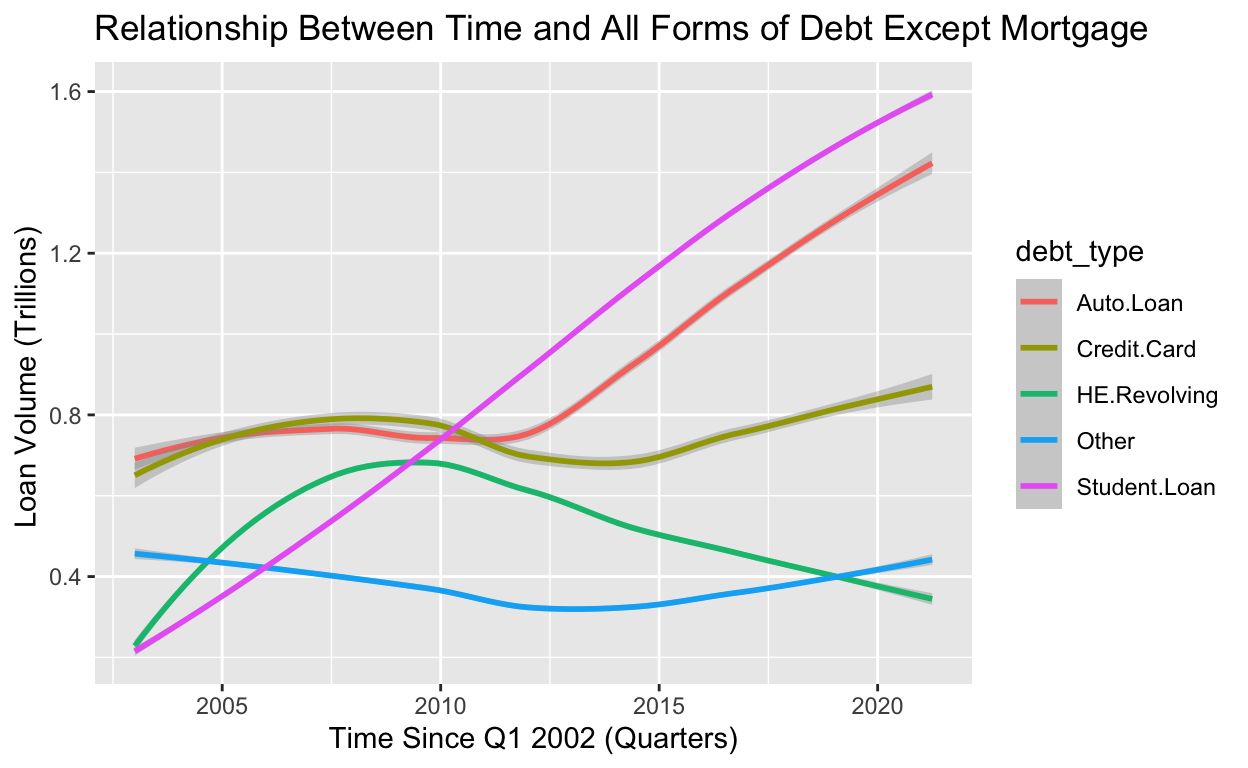
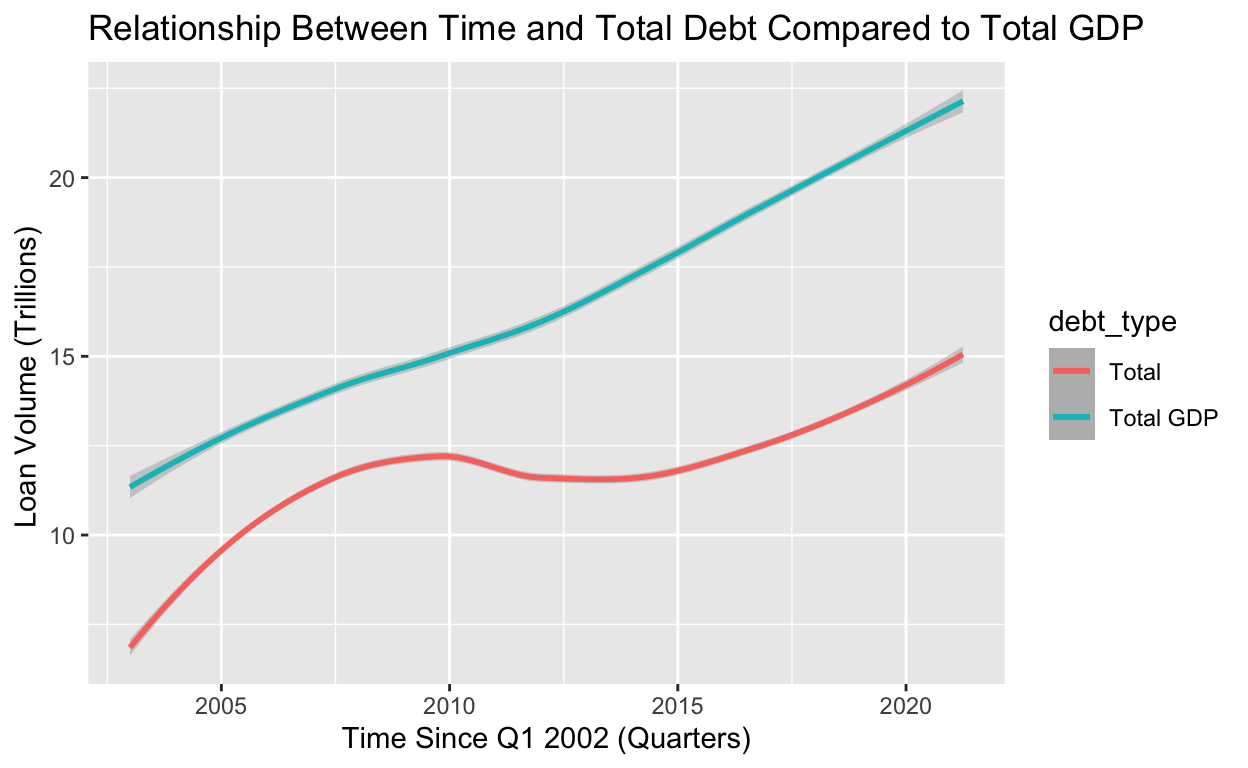
final project commit noah

diff --git a/_posts/2021-08-19-noah-final-project-draft/noah-final-project-draft.html b/_posts/2021-08-19-noah-final-project-draft/noah-final-project-draft.html
@@ -86,9 +86,9 @@ code span.wa { color: #5e5e5e; font-style: italic; } /* Warning */
 </style>
 
   <!--radix_placeholder_meta_tags-->
-  <title>Noah Homework 5</title>
+  <title>Noah's Final Project</title>
   
-  <meta property="description" itemprop="description" content="HW Five."/>
+  <meta property="description" itemprop="description" content="A Brief Analysis of Debt and Gross Domestic Product in the United States Since Quarter Four 2002"/>
   
   
   <!--  https://schema.org/Article -->
@@ -96,21 +96,21 @@ code span.wa { color: #5e5e5e; font-style: italic; } /* Warning */
   <meta property="article:created" itemprop="dateCreated" content="2021-08-19"/>
   
   <!--  https://developers.facebook.com/docs/sharing/webmasters#markup -->
-  <meta property="og:title" content="Noah Homework 5"/>
+  <meta property="og:title" content="Noah&#39;s Final Project"/>
   <meta property="og:type" content="article"/>
-  <meta property="og:description" content="HW Five."/>
+  <meta property="og:description" content="A Brief Analysis of Debt and Gross Domestic Product in the United States Since Quarter Four 2002"/>
   <meta property="og:locale" content="en_US"/>
   
   <!--  https://dev.twitter.com/cards/types/summary -->
   <meta property="twitter:card" content="summary"/>
-  <meta property="twitter:title" content="Noah Homework 5"/>
-  <meta property="twitter:description" content="HW Five."/>
+  <meta property="twitter:title" content="Noah&#39;s Final Project"/>
+  <meta property="twitter:description" content="A Brief Analysis of Debt and Gross Domestic Product in the United States Since Quarter Four 2002"/>
   
   <!--/radix_placeholder_meta_tags-->
   <!--radix_placeholder_rmarkdown_metadata-->
   
   <script type="text/json" id="radix-rmarkdown-metadata">
-  {"type":"list","attributes":{"names":{"type":"character","attributes":{},"value":["title","description","-name","date","output","draft"]}},"value":[{"type":"character","attributes":{},"value":["Noah Homework 5"]},{"type":"character","attributes":{},"value":["HW Five.\n"]},{"type":"character","attributes":{},"value":["Noah Milstein"]},{"type":"character","attributes":{},"value":["08-19-2021"]},{"type":"list","attributes":{"names":{"type":"character","attributes":{},"value":["distill::distill_article"]}},"value":[{"type":"list","attributes":{"names":{"type":"character","attributes":{},"value":["self_contained"]}},"value":[{"type":"logical","attributes":{},"value":[false]}]}]},{"type":"logical","attributes":{},"value":[true]}]}
+  {"type":"list","attributes":{"names":{"type":"character","attributes":{},"value":["title","description","-name","date","output","draft"]}},"value":[{"type":"character","attributes":{},"value":["Noah's Final Project"]},{"type":"character","attributes":{},"value":["A Brief Analysis of Debt and Gross Domestic Product in the United States Since Quarter Four 2002\n"]},{"type":"character","attributes":{},"value":["Noah Milstein"]},{"type":"character","attributes":{},"value":["08-19-2021"]},{"type":"list","attributes":{"names":{"type":"character","attributes":{},"value":["distill::distill_article"]}},"value":[{"type":"list","attributes":{"names":{"type":"character","attributes":{},"value":["self_contained"]}},"value":[{"type":"logical","attributes":{},"value":[false]}]}]},{"type":"logical","attributes":{},"value":[true]}]}
   </script>
   <!--/radix_placeholder_rmarkdown_metadata-->
   
@@ -1453,7 +1453,7 @@ code span.wa { color: #5e5e5e; font-style: italic; } /* Warning */
 <!--radix_placeholder_front_matter-->
 
 <script id="distill-front-matter" type="text/json">
-{"title":"Noah Homework 5","description":"HW Five.","authors":[],"publishedDate":"2021-08-19T00:00:00.000+00:00"}
+{"title":"Noah's Final Project","description":"A Brief Analysis of Debt and Gross Domestic Product in the United States Since Quarter Four 2002","authors":[],"publishedDate":"2021-08-19T00:00:00.000+00:00"}
 </script>
 
 <!--/radix_placeholder_front_matter-->
@@ -1463,20 +1463,20 @@ code span.wa { color: #5e5e5e; font-style: italic; } /* Warning */
 <!--/radix_placeholder_site_before_body-->
 
 <div class="d-title">
-<h1>Noah Homework 5</h1>
+<h1>Noah’s Final Project</h1>
 <!--radix_placeholder_categories-->
 <!--/radix_placeholder_categories-->
-<p><p>HW Five.</p></p>
+<p><p>A Brief Analysis of Debt and Gross Domestic Product in the United States Since Quarter Four 2002</p></p>
 </div>
 
 
 <div class="d-article">
 <h2 id="research-problem">Research Problem</h2>
-<p>The Research Problem I will be addressing relates to nation debt in the United over the past two decades. Leading up to and after the financial crisis debt has become an important topic in economics. Since the financial crisis was largely caused by debtors being allowed more credit than they were able to pay back, it is important to ensure that the country is not following a similar path economically.</p>
+<p>THe Research problem I wanted to pursue with this project is the relationship between GDP and debt. Specifically I was interested in student debt and mortgage debt relative to GDP and the cumulative debt of consumer. I wanted to address this question over past two decades, leading up to and after the financial crisis. Debt is an important topic in economics and examine its size relative to the domestic product of the United States is also important for understanding how the economy function. Since the financial crisis was largely caused by debtors being allowed more credit than they were able to pay back, it is important to ensure that the country is not following a similar path economically.</p>
 <h1 id="how-i-will-be-analyzing-the-probelem">How I will be analyzing the probelem</h1>
 <p>In order to estimate extent to which debt has increased in the economy recently compared to the past I will compare united states national debt to GDP or gross domestic product.</p>
-<p>Specifically I wanted to see which ones had increased the most in the last few years relative to one another, and if any sectors have reached a similar level to what spurred the 2008 financial crisis. This issue is important on a macro scale as the general consensus seems to be that debt is excessive throughout the economy, especially on the consumer side. Because of this it is important to see how debt has changed in comparison to what the economy is actually able to produce. Excess debt largely implies that people have to borrow beyond income limitations, which could eventually have limits.</p>
-<p>I would argue that debt has returned to its pre-crisis highs and represents a threat to economic stability in the United States. Specifically I would argue that housing market debt is likely nearing unsustainable levels once again. In addition, upticks in other forms of debt have likely increased in comparison to what we produced, which could indicate a looming crisis or a coming inhibitor to non-debt fuled economic growth.</p>
+<p>Specifically I wanted to see which ones had increased the most in the last few years relative to one another, and if any sectors have reached a similar level to what spurred the 2008 financial crisis. This issue is important on a macro scale as the general consensus seems to be that debt is excessive throughout the economy, especially on the consumer side. Because of this it is important to see how debt has changed in comparison to what the economy is actually able to produce. Excess debt largely implies that people have to borrow beyond income limitations, which could eventually have far reaching consequences.</p>
+<p>I would argue that debt has returned to its pre-crisis highs and represents a threat to economic stability in the United States. Specifically I would argue that housing market debt is likely nearing unsustainable levels once again. In addition, upticks in other forms of debt have likely increased in comparison to what we produced, which could indicate a looming crisis or a coming inhibitor to non-debt fueled economic growth.</p>
 <h2 id="my-data">My Data</h2>
 <p>The dataset I chose for my final project relates to household debt in the United States, it comes from the New York Federal Reserve in quarterly data since 2003 and is reported in the trillions. I am very much interested in the increasing use of debt in the economy to inflate the value of a variety of sectors and give the impression of economic well being. Because of this is wanted to start by analyzing the FED data regarding the basic kinds of debt in comparison to one another and income to see how various forms of debt have been increasing.</p>
 <div class="layout-chunk" data-layout="l-body">
@@ -1515,12 +1515,12 @@ code span.wa { color: #5e5e5e; font-style: italic; } /* Warning */
 </div>
 <h2 id="my-variables">My Variables</h2>
 <p>The above code loads in the two datasets I will be using for this project. The first “total_debt_plus_comp_raw_NM” contains data from the federal reserve regarding cumulative debt in the united states in trillions of dollars. It is broken down into the Year and Quarter in which the observation was recorded. It is subdivided into columns by Mortgage, HE Revolving, Auto Loan, Credit Card, Student Loan, Other, and Total debt.</p>
-<p>The second of the two datasets “GDP_FED_trills” contains yearly GDP data also broken down into quarterly data.</p>
+<p>The second of the two datasets “GDP_FED_trills” contains yearly GDP data also broken down into quarters.</p>
 <div class="layout-chunk" data-layout="l-body">
 <div class="sourceCode">
 <pre class="sourceCode r"><code class="sourceCode r"><span class='va'>GDP_Rows_Removed_to_Q4_2002</span><span class='op'>&lt;-</span><span class='va'>GDP_FED_trills</span><span class='op'>[</span><span class='op'>-</span><span class='fu'><a href='https://rdrr.io/r/base/c.html'>c</a></span><span class='op'>(</span><span class='fl'>1</span><span class='op'>:</span><span class='fl'>234</span><span class='op'>)</span>,<span class='op'>]</span>
 
-<span class='co'># First unneeded observation not included in the debt sheet are removed from GDP</span>
+<span class='co'># First unneeded observations not included in the debt sheet are removed from GDP</span>
 
 <span class='va'>GDP_Rows_Removed_to_Q4_2002</span><span class='op'>&lt;-</span><span class='va'>GDP_Rows_Removed_to_Q4_2002</span><span class='op'>[</span><span class='op'>-</span><span class='fu'><a href='https://rdrr.io/r/base/c.html'>c</a></span><span class='op'>(</span><span class='fl'>1</span><span class='op'>)</span><span class='op'>]</span>
 
@@ -1533,7 +1533,7 @@ code span.wa { color: #5e5e5e; font-style: italic; } /* Warning */
 
 <span class='va'>GDP_Rows_Removed_to_Q4_2002</span><span class='op'>$</span><span class='va'>Quarters_Since_Q4_2002</span><span class='op'>&lt;-</span><span class='va'>values_before_date_modification</span>
 
-<span class='co'># Next to the GDP I add my sequence of number </span>
+<span class='co'># Next to the GDP I add my sequence of numbers </span>
 <span class='co'>#from 1 to 74 representing the number of quarters </span>
 <span class='co'>#since Q4 2002 which is a bootstrap method of creating a time variable</span>
 
@@ -1803,10 +1803,13 @@ values_to<span class='op'>=</span><span class='st'>"debt_amount"</span><span cla
 <span class='op'>)</span>,                                          
 names_to<span class='op'>=</span><span class='st'>"debt_type"</span>, 
 values_to<span class='op'>=</span><span class='st'>"debt_amount"</span><span class='op'>)</span> 
+<span class='co'># The pivot_longer code above moves the debt types, each of which had its own</span>
+<span class='co'>#column into rows so that they can be more easily grouped and used in visuals</span>
 </code></pre>
 </div>
 </div>
 <h3 id="statistics-associated-with-each-variable">Statistics Associated With Each Variable</h3>
+<p>The statistics associated with each debt type are illustrating in the table below.</p>
 <div class="layout-chunk" data-layout="l-body">
 <div class="sourceCode">
 <pre class="sourceCode r"><code class="sourceCode r"><span class='va'>complete_spreadsheet_GDP_Debt</span> <span class='op'>%&gt;%</span> <span class='fu'><a href='https://dplyr.tidyverse.org/reference/select.html'>select</a></span><span class='op'>(</span>
@@ -1816,7 +1819,7 @@ values_to<span class='op'>=</span><span class='st'>"debt_amount"</span><span cla
   <span class='op'>)</span><span class='op'>)</span> <span class='op'>%&gt;%</span>
 <span class='fu'><a href='https://rdrr.io/pkg/psych/man/describe.html'>describe</a></span><span class='op'>(</span>
   na.rm <span class='op'>=</span> <span class='cn'>TRUE</span>
-  <span class='op'>)</span> <span class='op'>%&gt;%</span> <span class='fu'><a href='https://dplyr.tidyverse.org/reference/select.html'>select</a></span><span class='op'>(</span><span class='fu'><a href='https://rdrr.io/r/base/c.html'>c</a></span><span class='op'>(</span><span class='st'>"n"</span>, <span class='st'>"mean"</span>, <span class='st'>"sd"</span>, <span class='st'>"median"</span>, <span class='st'>"mad"</span>, <span class='st'>"min"</span>, <span class='st'>"max"</span>, <span class='st'>"range"</span> <span class='op'>)</span><span class='op'>)</span> <span class='op'>%&gt;%</span> <span class='fu'><a href='https://rdrr.io/pkg/knitr/man/kable.html'>kable</a></span><span class='op'>(</span><span class='op'>)</span>
+  <span class='op'>)</span> <span class='op'>%&gt;%</span> <span class='fu'><a href='https://dplyr.tidyverse.org/reference/select.html'>select</a></span><span class='op'>(</span><span class='fu'><a href='https://rdrr.io/r/base/c.html'>c</a></span><span class='op'>(</span><span class='st'>"n"</span>, <span class='st'>"mean"</span>, <span class='st'>"sd"</span>, <span class='st'>"median"</span>, <span class='st'>"min"</span>, <span class='st'>"max"</span>, <span class='st'>"range"</span> <span class='op'>)</span><span class='op'>)</span> <span class='op'>%&gt;%</span> <span class='fu'><a href='https://rdrr.io/pkg/knitr/man/kable.html'>kable</a></span><span class='op'>(</span><span class='op'>)</span>
 </code></pre>
 </div>
 <table>
@@ -1827,7 +1830,6 @@ values_to<span class='op'>=</span><span class='st'>"debt_amount"</span><span cla
 <th style="text-align: right;">mean</th>
 <th style="text-align: right;">sd</th>
 <th style="text-align: right;">median</th>
-<th style="text-align: right;">mad</th>
 <th style="text-align: right;">min</th>
 <th style="text-align: right;">max</th>
 <th style="text-align: right;">range</th>
@@ -1840,7 +1842,6 @@ values_to<span class='op'>=</span><span class='st'>"debt_amount"</span><span cla
 <td style="text-align: right;">8.2739865</td>
 <td style="text-align: right;">1.1848757</td>
 <td style="text-align: right;">8.4120000</td>
-<td style="text-align: right;">0.7724346</td>
 <td style="text-align: right;">4.9420</td>
 <td style="text-align: right;">10.442</td>
 <td style="text-align: right;">5.5000</td>
@@ -1851,7 +1852,6 @@ values_to<span class='op'>=</span><span class='st'>"debt_amount"</span><span cla
 <td style="text-align: right;">0.5160662</td>
 <td style="text-align: right;">0.1237017</td>
 <td style="text-align: right;">0.5165000</td>
-<td style="text-align: right;">0.1406987</td>
 <td style="text-align: right;">0.2420</td>
 <td style="text-align: right;">0.714</td>
 <td style="text-align: right;">0.4720</td>
@@ -1862,7 +1862,6 @@ values_to<span class='op'>=</span><span class='st'>"debt_amount"</span><span cla
 <td style="text-align: right;">0.9308703</td>
 <td style="text-align: right;">0.2346748</td>
 <td style="text-align: right;">0.8145000</td>
-<td style="text-align: right;">0.1519665</td>
 <td style="text-align: right;">0.6220</td>
 <td style="text-align: right;">1.415</td>
 <td style="text-align: right;">0.7930</td>
@@ -1873,7 +1872,6 @@ values_to<span class='op'>=</span><span class='st'>"debt_amount"</span><span cla
 <td style="text-align: right;">0.7565176</td>
 <td style="text-align: right;">0.0687958</td>
 <td style="text-align: right;">0.7375000</td>
-<td style="text-align: right;">0.0763539</td>
 <td style="text-align: right;">0.6590</td>
 <td style="text-align: right;">0.927</td>
 <td style="text-align: right;">0.2680</td>
@@ -1884,7 +1882,6 @@ values_to<span class='op'>=</span><span class='st'>"debt_amount"</span><span cla
 <td style="text-align: right;">0.9188575</td>
 <td style="text-align: right;">0.4276748</td>
 <td style="text-align: right;">0.9088281</td>
-<td style="text-align: right;">0.5746229</td>
 <td style="text-align: right;">0.2407</td>
 <td style="text-align: right;">1.584</td>
 <td style="text-align: right;">1.3433</td>
@@ -1895,7 +1892,6 @@ values_to<span class='op'>=</span><span class='st'>"debt_amount"</span><span cla
 <td style="text-align: right;">0.3830770</td>
 <td style="text-align: right;">0.0458267</td>
 <td style="text-align: right;">0.3920500</td>
-<td style="text-align: right;">0.0451452</td>
 <td style="text-align: right;">0.2960</td>
 <td style="text-align: right;">0.486</td>
 <td style="text-align: right;">0.1900</td>
@@ -1903,6 +1899,25 @@ values_to<span class='op'>=</span><span class='st'>"debt_amount"</span><span cla
 </tbody>
 </table>
 </div>
+<p>Each debt type has an associated n, mean, sd, median, min, max, range and, mad:</p>
+<ul>
+<li><p><strong>n</strong> is the number of observations for each type of debt</p></li>
+<li><p><strong>mean</strong> is the average amount of debt for that particular debt type over the entire period from 2002 Q4 to 2021 Q2 in trillions of dollars.</p></li>
+<li><p><strong>sd</strong> or standard deviation of the group of observations is a measure how far the data deviates from the mean. It uses the square root of the sum of squared differences between each observation and its mean divided by the data’s n. It standardizes the data’s deviation so that the differences in variation between different forms of debt can be compared</p></li>
+<li><p><strong>median</strong> is the middle value in the range of all observations in the data.</p></li>
+<li><p><strong>min and max</strong> are both the minimum and maximum observation for each type of debt in terms of debt amount.</p></li>
+<li><p><strong>range</strong> is the difference between maximum and minimum observed values.</p></li>
+</ul>
+<h3 id="observations-regarding-statistical-measurements">Observations Regarding Statistical Measurements</h3>
+<p>The mean observations for each indicate the largest range and average value for mortgage, so during visualization it can be expected to be larger than all other observation. The minimum of mortgage debt is also larger than the max of any other debt type. Additionally the sum of all debt types means is smaller than the mean of mortgage alone.</p>
+<div class="layout-chunk" data-layout="l-body">
+<div class="sourceCode">
+<pre class="sourceCode r"><code class="sourceCode r"><span class='fl'>0.5160662</span><span class='op'>+</span><span class='fl'>0.9308703</span><span class='op'>+</span><span class='fl'>0.7565176</span><span class='op'>+</span><span class='fl'>0.9188575</span><span class='op'>+</span><span class='fl'>0.3830770</span> 
+</code></pre>
+</div>
+<pre><code>[1] 3.505389</code></pre>
+</div>
+<p>Given these observations it is likely that mortgage is and was the largest share of debt despite the repercussions of this in 2008, though it is difficult to comprehend changes in the other debt types, though student loans have the second largest range of 1.3433 trillion after mortgage’s 5.5000 trillion dollar range.</p>
 <h2 id="data-visualization">Data Visualization</h2>
 <p>The following graphs depict the movement of each of a number of forms of debt, measured in trillions of dollars, over time from Quarter 4 2002 to the 2nd Quarter of 2021. I used geom_smooth() in my analysis along with ggplot() because each form of debt only has one observation for each year, thus a regression or geom_smooth() over geom_points() would not provide any additional information. Nor would an independently generated linear model.</p>
 <h3 id="graph-1">Graph 1</h3>
@@ -1920,12 +1935,12 @@ values_to<span class='op'>=</span><span class='st'>"debt_amount"</span><span cla
     y<span class='op'>=</span> <span class='st'>"Loan Volume (Trillions) "</span>, x<span class='op'>=</span><span class='st'>"Time Since Q4 2002 (Quarters)"</span><span class='op'>)</span>
 </code></pre>
 </div>
-<p><img src="noah-final-project-draft_files/figure-html5/unnamed-chunk-10-1.png" width="624" /></p>
+<p><img src="noah-final-project-draft_files/figure-html5/unnamed-chunk-11-1.png" width="624" /></p>
 </div>
-<p>The graph illustrates a great deal about the data. Each type of debt besides mortgage occupies a relatively small amount compared to loans involving property. However, it is clear from the geom_smooth()s that auto loans and student loans have increased beyond all types of debt beyond mortgage.</p>
-<p>The graph also indicates that the cumulative mortgage debt reached a peak in 2008 and then fell sharply following the crisis and has returned to a point larger than it was before the crisis. It is also the only graph that appears to have extreme peaks and troughs that could not be explained through a purely linear increase.</p>
+<p>The graph illustrates a great deal about the data. Each type of debt besides mortgage occupies a relatively small amount compared to loans involving property. However, it is clear from the geom_smooth()s that auto loans and student loans have increased, but represent a fraction of the debt that mortgage does.</p>
+<p>The graph also indicates that the cumulative mortgage debt reached a peak in 2008 and then fell sharply following the crisis and has returned to a point larger than it was before the crisis. It is also the only graph that appears to have extreme peaks and troughs that could not be explained through a purely linear increase in this visualization method.</p>
 <h3 id="graph-2">Graph 2</h3>
-<p>The next graph is largely the same as the previous, but with the additional of Total GDP. In this case GDP and debt appear to be moving farther apart.</p>
+<p>The next graph is largely the same as the previous, but with the additional of Total GDP. In this case GDP and mortgage debt appear to be moving farther apart as time has went on as the gap between the lines has become larger since the 08 crisis.</p>
 <div class="layout-chunk" data-layout="l-body">
 <div class="sourceCode">
 <pre class="sourceCode r"><code class="sourceCode r"><span class='va'>complete_spreadsheet_GDP_Debt_pL_with_mort</span> <span class='op'>%&gt;%</span>
@@ -1941,7 +1956,7 @@ values_to<span class='op'>=</span><span class='st'>"debt_amount"</span><span cla
         y<span class='op'>=</span> <span class='st'>"Loan Volume (Trillions)"</span>, x<span class='op'>=</span><span class='st'>"Time Since Q4 2002 (Quarters)"</span><span class='op'>)</span>
 </code></pre>
 </div>
-<p><img src="noah-final-project-draft_files/figure-html5/unnamed-chunk-11-1.png" width="624" /></p>
+<p><img src="noah-final-project-draft_files/figure-html5/unnamed-chunk-12-1.png" width="624" /></p>
 </div>
 <h3 id="graph-3">Graph 3</h3>
 <p>The following graph examines this relationship more directly comparing Total GDP to Total debt, it appears these two lines became closest leading up to and during the period between 2006 and 2008 when the crisis began. The two lines appear to be approaching again as the Total debt line, in this case labeled “Total” has a positive slope.</p>
@@ -1961,10 +1976,11 @@ values_to<span class='op'>=</span><span class='st'>"debt_amount"</span><span cla
        y<span class='op'>=</span> <span class='st'>"Loan Volume (Trillions) "</span>, x<span class='op'>=</span><span class='st'>"Time Since Q1 2002 (Quarters)"</span><span class='op'>)</span>
 </code></pre>
 </div>
-<p><img src="noah-final-project-draft_files/figure-html5/unnamed-chunk-12-1.png" width="624" /></p>
+<p><img src="noah-final-project-draft_files/figure-html5/unnamed-chunk-13-1.png" width="624" /></p>
 </div>
+<p>The graph confirms what was depicted in graph 2 as debt has increased, but due to the 2008 crisis the gap is still quite large.</p>
 <h3 id="graph-4">Graph 4</h3>
-<p>The graph below illustrates all debt types but mortgage to better show the trends within this group, which was difficult to comprehend in the above graphs because the geom_smooth()s were compressed at the bottom of the graph as mortgage has a far greater volume than any of them.</p>
+<p>The graph below illustrates all debt types without mortgage. This better illustrates the trends within the group which was difficult to discern in prior graphs.</p>
 <div class="layout-chunk" data-layout="l-body">
 <div class="sourceCode">
 <pre class="sourceCode r"><code class="sourceCode r"><span class='va'>complete_spreadsheet_GDP_Debt_pL_wo_mort</span> <span class='op'>%&gt;%</span>
@@ -1977,11 +1993,11 @@ values_to<span class='op'>=</span><span class='st'>"debt_amount"</span><span cla
       y<span class='op'>=</span> <span class='st'>"Loan Volume (Trillions) "</span>, x<span class='op'>=</span><span class='st'>"Time Since Q1 2002 (Quarters)"</span><span class='op'>)</span>
 </code></pre>
 </div>
-<p><img src="noah-final-project-draft_files/figure-html5/unnamed-chunk-13-1.png" width="624" /></p>
+<p><img src="noah-final-project-draft_files/figure-html5/unnamed-chunk-14-1.png" width="624" /></p>
 </div>
-<p>The graph indicates a positive slope for Auto Loans, student loans, and credit card debt along with the “other” category. The only type of loan that appears to be decreasing is the Revolving loan category.</p>
+<p>The graph indicates a positive slope for Auto Loans, student loans, and credit card debt along with the “other” category. The only type of loan that appears to be decreasing is the Revolving category.</p>
 <h3 id="graph-5">Graph 5</h3>
-<p>The graph below indicates a similar pattern when comparing “Total GDP” to all types of debt except for Mortgage debt. In this case it appears that the pace of GDP growth is larger than the growth of any individual form of debt besides mortgage debt.</p>
+<p>The graph below indicates a similar pattern when comparing “Total GDP” to all types of debt except for Mortgage debt. In this case it appears that the pace of GDP growth is larger than the growth of any individual form of debt, especially without the presence of mortgage debt.</p>
 <div class="layout-chunk" data-layout="l-body">
 <div class="sourceCode">
 <pre class="sourceCode r"><code class="sourceCode r"><span class='va'>complete_spreadsheet_GDP_Debt_pL_wo_mort</span> <span class='op'>%&gt;%</span>
@@ -1999,7 +2015,7 @@ values_to<span class='op'>=</span><span class='st'>"debt_amount"</span><span cla
     y<span class='op'>=</span> <span class='st'>"Loan Volume (Trillions) "</span>, x<span class='op'>=</span><span class='st'>"Time Since Q1 2002 (Quarters)"</span><span class='op'>)</span>
 </code></pre>
 </div>
-<p><img src="noah-final-project-draft_files/figure-html5/unnamed-chunk-14-1.png" width="624" /></p>
+<p><img src="noah-final-project-draft_files/figure-html5/unnamed-chunk-15-1.png" width="624" /></p>
 </div>
 <h1 id="density-plots">Density Plots</h1>
 <h3 id="first-density-plot">First Density Plot</h3>
@@ -2018,7 +2034,7 @@ values_to<span class='op'>=</span><span class='st'>"debt_amount"</span><span cla
     y<span class='op'>=</span> <span class='st'>"Density"</span>, x<span class='op'>=</span><span class='st'>"Debt Volume"</span><span class='op'>)</span>
 </code></pre>
 </div>
-<p><img src="noah-final-project-draft_files/figure-html5/unnamed-chunk-15-1.png" width="624" /></p>
+<p><img src="noah-final-project-draft_files/figure-html5/unnamed-chunk-16-1.png" width="624" /></p>
 </div>
 <h3 id="second-density-plot">Second Density Plot</h3>
 <p>The Second density plot compares all debt types. In this distribution is it clear that mortgage since 2002 has been most densely concentrated near the higher amounts of debt. Similarly to smoothed plots the density plot illustrates that all other types of debt besides mortgage are highly concentrated near the lower end of debt. while auto loans are high as well when compared to the other three.</p>
@@ -2030,14 +2046,20 @@ values_to<span class='op'>=</span><span class='st'>"debt_amount"</span><span cla
        y<span class='op'>=</span> <span class='st'>"Density"</span>, x<span class='op'>=</span><span class='st'>"Debt Volume"</span><span class='op'>)</span>
 </code></pre>
 </div>
-<p><img src="noah-final-project-draft_files/figure-html5/unnamed-chunk-16-1.png" width="624" /></p>
+<p><img src="noah-final-project-draft_files/figure-html5/unnamed-chunk-17-1.png" width="624" /></p>
 </div>
 <h2 id="conclusion">Conclusion</h2>
+<p>Analysis of cumulative United States debt is vital for understanding macroeconomic trends and the complexion of national consumption. The willingness of individuals to take on debt and spend beyond the capacity of their income represents a great deal about what areas of spending are a general priority.</p>
+<h4 id="implications-of-graphs-and-statistics">Implications of Graphs and Statistics</h4>
+<p>The graphs and statistical information provide a great deal of information regarding recent trends in debt. Mortgage debt remains the largest holding of debt, while all but one of the six forms of debt analyzed appears to be falling. Overall debt for individuals is likely then growing. GDP, though a flawed measure of individual income and spending capacity, is useful to analyze in comparison to debt because the interaction between the two suggests a great deal about how the economy functions.</p>
 <h2 id="reflection">Reflection</h2>
+<p>My experience with the process of making this project was fairly smooth. Both datasets that I used were made by professional, analysis minded, government agencies. Because of this they required minimal cleaning beyond the removal of rows describing what each table contained.</p>
+<p>The most challenging and time consuming part of the process was figuring out that I would need to pivot my data in order to visualize the data more easily. Working with my initial columns was difficult and comparing multiple types of debt across the dataset was difficult. Figuring out how to pivot in visualize then took the greatest amount of time.</p>
+<p>Given more time I would have liked to do a state by state, or county breakdown of the data. Though debt and GDP are interesting to compare on a macro scale, going down and seeing how these trends differ by state and region would be interesting. I would also have liked to include other datasets that include information regarding loan delinquency and household spending relative to debt. It would have also been interested in a less broad approach, perhaps comparing one loan type to other areas of consumption</p>
 <h2 id="citations">Citations</h2>
 <p>Federal Reserve of New York, <em>Quarterly Report on Household Debt and Credit 2021:Q2</em>, August, 2021, New York, New York, FED.</p>
 <p>U.S. Bureau of Economic Analysis, <em>Gross Domestic Product [GDP]</em>, FRED, Federal Reserve Bank of St. Louis.</p>
-<div class="sourceCode" id="cb2"><pre class="sourceCode r distill-force-highlighting-css"><code class="sourceCode r"></code></pre></div>
+<div class="sourceCode" id="cb3"><pre class="sourceCode r distill-force-highlighting-css"><code class="sourceCode r"></code></pre></div>
 <!--radix_placeholder_article_footer-->
 <!--/radix_placeholder_article_footer-->
 </div>
